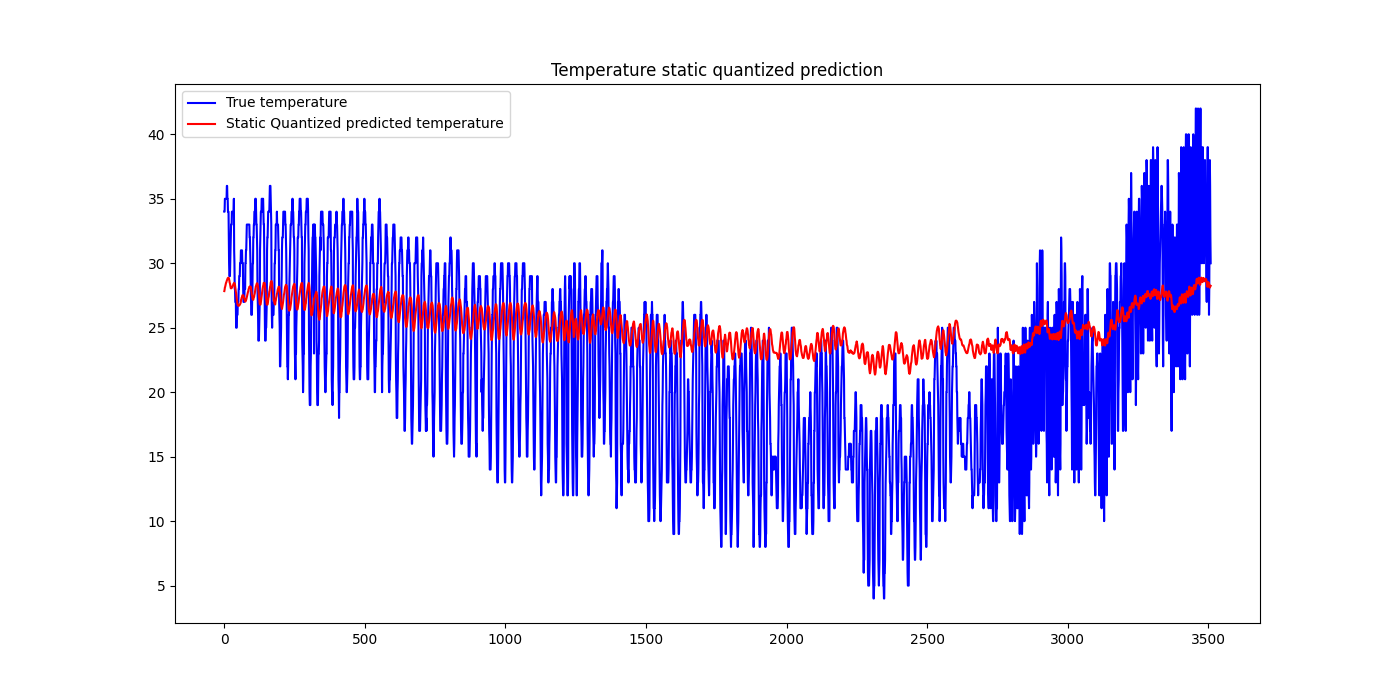
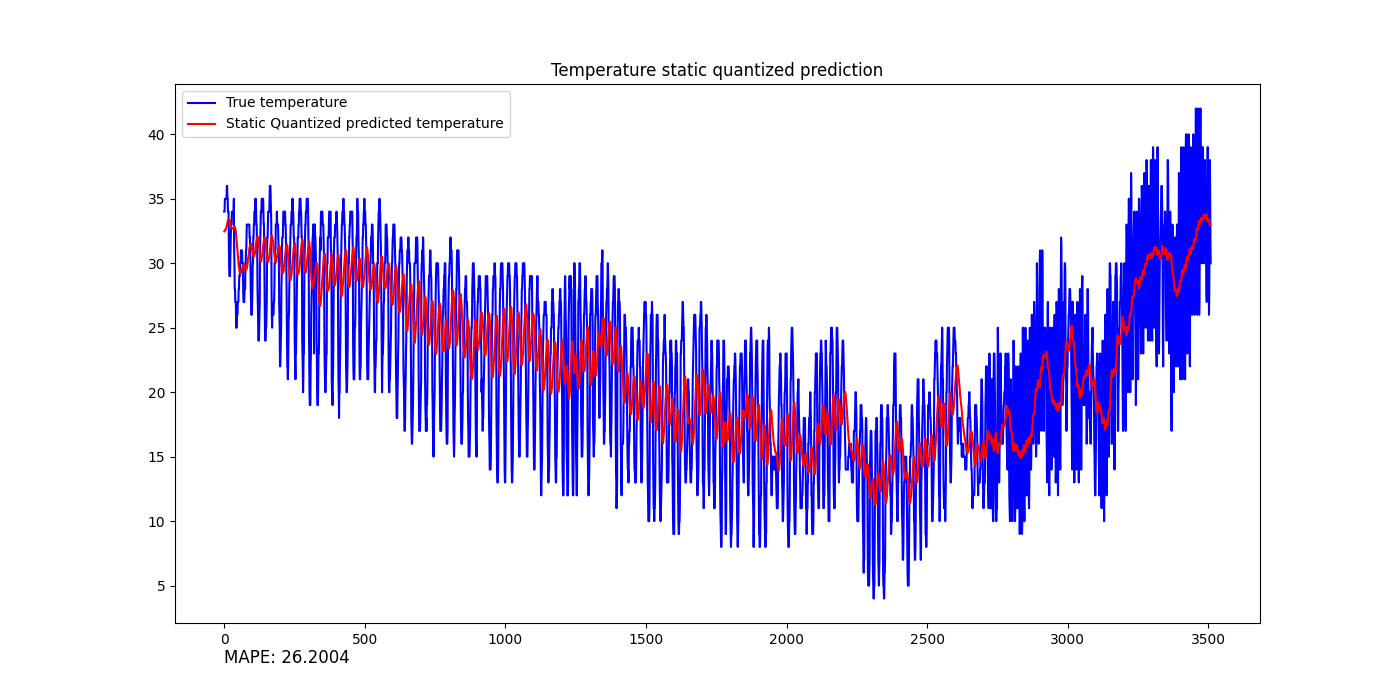
ptdq is done, moving on to notion

Changed region(s): [[0.1536, 0.33, 0.86, 0.72], [0.1536, 0.93, 0.2457, 0.96]]

diff --git a/torch-quantization-tutorial/ptq/lstm_ptdq.py b/torch-quantization-tutorial/ptq/lstm_ptdq.py
@@ -172,7 +172,7 @@ criterion = nn.MSELoss()
 optimizer = torch.optim.Adam(model.parameters(), lr=0.001)
 
 # Training loop
-num_epochs = 100
+num_epochs = 500
 pbar = tqdm(range(num_epochs))
 for epoch in pbar:
     # Convert the input data to torch tensors and move to GPU
@@ -226,6 +226,8 @@ mape = np.mean(np.abs((Ytest - Ytest_pred) / Ytest)) * 100
 plt.figure(figsize=(14, 7))
 plt.plot(Ytest, label='True temperature', color='blue')
 plt.plot(Ytest_pred, label='Predicted temperature', color='red')
+plt.text(-1, -1, "MAPE: {:.4f}".format(mape), fontsize=12)
+
 plt.title('Temperature prediction')
 plt.legend()
 plt.savefig("./res_img/lstm_before_qt.png")
@@ -264,11 +266,11 @@ plt.figure(figsize=(14, 7))
 plt.plot(Ytest, label='True temperature', color='blue')
 plt.plot(Ytest_pred_static_quantized, label='Static Quantized predicted temperature', color='red')
 plt.title('Temperature static quantized prediction')
+plt.text(-1, -1, "MAPE: {:.4f}".format(mape_static_quantized), fontsize=12)
 plt.legend()
 plt.savefig("./res_img/lstm_after_qt.png")
-print(mape_static_quantized)
 print(print_model_size(quantized_model))
 
 # compare output type
 print("Output type comparison")
-print(Ytest_pred_static_quantized)
+print(Ytest_pred_static_quantized.dtype)
